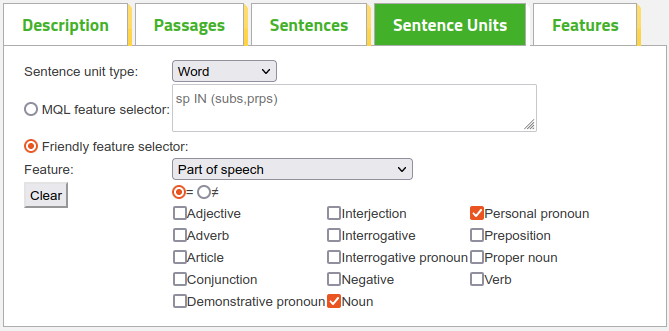
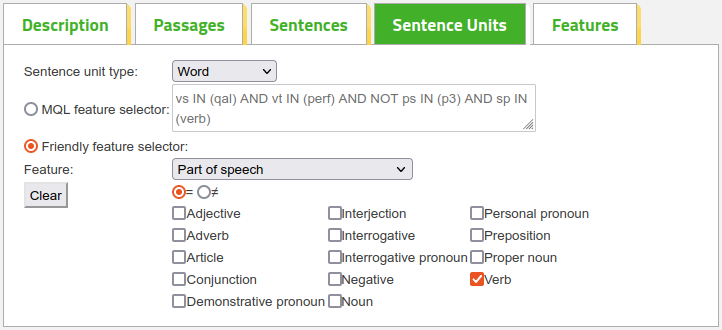
Added "Create advanced exercise" to Users Guide

diff --git a/usersguide/en/create_secondex.php b/usersguide/en/create_secondex.php
@@ -1,0 +1,163 @@
+<?php $hg = $hdir->heb_gr('Hebrew','Greek') ?>
+
+<h1>Example: Create an Advanced <?= $hg ?> Exercise</h1>
+
+<p>(You may be interested in a <?= anchor('help/show_help/create_secondex/' . $hdir->heb_gr('gr','heb'),
+                                          'corresponding '. $hdir->heb_gr('Greek','Hebrew') . ' exercise')
+    ?>.)</p>
+
+<p>In this example we shall continue working with the exercise from the
+    <?= anchor("help/show_help/create_firstex/$sub_article","previous example") ?>.</p>
+
+<p>In the previous example, we created an exercise that found <?= $hg ?>
+  verbs in the <?= $hdir->heb_gr('qal qatal forms','present indicative') ?> and asked the student about
+  the <?= $hdir->heb_gr('person, gender, and number','person and number') ?> of these verbs. We saw,
+  furthermore, that most verbs are in the third person <?= $hdir->heb('masculine') ?> singular, so we
+  chose to exclude all third person verbs.</p>
+
+<p>So far so good; but suppose we don&rsquo;t mind that words in the third person <i>occasionally</i>
+    turn up. We might, for example, say that when choosing <i>sentences</i> we insist that they
+    must contain words in the first or second person, but we don&rsquo;t mind if the chosen <i>sentence
+    units</i> (words) are in the third person if the sentence happens to contain such words.
+    We can do that in this way:</p>
+
+<p>In the &ldquo;Sentences&rdquo; tab, remove the check mark next to &ldquo;Use this for sentence
+  unit selection&rdquo;. This enables you to use different criteria when choosing
+  sentences and when choosing words within the sentence. Now click the
+  &ldquo;Sentence Units&rdquo; tab:</p>
+
+<?= $hdir->img("$sub_article-sentence-units-tab1.png") ?>
+
+<p>You can see that this tab is very similar to the &ldquo;Sentences&rdquo; tab, but the
+  first few lines come in a slightly different order. Depending on how you
+  reached this point, this window may show different things. If you started with
+  an empty exercise, the window will show no selected features. But if you opened
+  the exercise using <i>Edit</i> in the File Manager, the window will show the
+  original content of the <i>sentence</i> choice criteria. This may be a bit
+  confusing, but if you press the &ldquo;Clear&rdquo; button, all the criteria in this tab
+  are removed.</p>
+
+<p>Just as you originally did under &ldquo;Sentences&rdquo;, you can here choose Part-of-speech=Verb,
+  <?= $hdir->heb_gr('Stem=Qal and Tense=Qatal','Mood=Indicative and Tense=Present') ?>. But refrain from
+  specifying any requirements about the Person feature. In this way you allow the program to ask
+  about third person verbs if they happen to occur in the chosen sentences.</p>
+
+<p>You can no run the exercise again, and you might get this sentence from
+  <?= $hdir->heb_gr('Genesis&nbsp;3:12','Luke&nbsp;11:8') ?>:</p>
+
+<?= $hdir->img("$sub_article-run-exercise3.png") ?>
+
+<p>You can see that &ndash; as requested &ndash; the sentence contains at least one word which is
+    not in the third person; but as the sentence also happens to contain a third person verb
+    (namely, <?= $hdir->heb_gr('<span class="help hebrew">נָֽתְנָה</span>','χρῄζει') ?>), you are asked
+    about this one as well. (In this example, you need to click the &#10095; symbol at the right
+    side of the answer box to see that word.)</p>
+
+<p>But even this is not ideal. We saw earlier that among the present tense forms there was an excess
+  of third person <?= $hdir->heb('masculine') ?> singular forms. We have now chosen to exclude
+  sentences that only contain verbs in the third person, but we were actually only interested in
+  excluding words in the third person <i><?= $hdir->heb('masculine') ?> singular</i>. We don&rsquo;t mind
+  words in the third person <?= $hdir->heb('<i>feminine</i> or') ?> <i>plural.</i></p>
+
+<p>But if we want to exclude only the third person <?= $hdir->heb('masculine') ?> singular, the
+  feature selectors we have seen so far will not suffice. We need sentences containing words whose
+  part of speech is verb, whose <?= $hdir->heb_gr('stem is qal','mood is indicative') ?>, whose tense is
+  <?= $hdir->heb_gr('perfect','present') ?>, and whose <?= $hdir->heb_gr('person, gender, and number','person
+  and number') ?> are not simultaneously <?= $hdir->heb_gr('3rd, masculine, and singular','3rd and
+  singular') ?>. This is a fairly complex rule and you rarely need to specify something as
+  complicated as this. You <i>can</i> specify this in Bible OL, but you need to use the command
+  language MQL.</p>
+
+<p>If you are not interested in more complex sentence choices using MQL, you can skip the rest of
+    this example. But if you want a small taste of how <?= anchor('help/show_help/mql','MQL') ?>
+    is used, you may return to the &ldquo;Sentences&rdquo; tab and select the option &ldquo;MQL
+    statement to select sentences&rdquo;:</p>
+
+<?= $hdir->img("$sub_article-sentences-tab4.png") ?>
+
+<p>The system here shows an MQL command that corresponds to the features we
+  have chosen: <code><?= $hdir->heb_gr(
+  '[word NORETRIEVE vs IN (qal) AND vt IN (perf) AND NOT ps IN (p3) AND sp IN (verb)]',
+  '[word NORETRIEVE psp IN (verb) AND tense IN (present) AND mood IN (indicative) AND NOT person IN (third_person)]'
+   ) ?></code>.<?= make_footnote('*','You may need to move the small triangle at the lower right corner of the edit field
+   in order to see the entire text') ?>
+  This statement begins with the word &ldquo;word&rdquo; which indicates the type of sentence unit
+  we are looking for. The word &ldquo;NORETRIEVE&rdquo; has no effect on the choice, but it makes
+  the request run faster. The rest of the command contains our four selection criteria:</p>
+
+<?php if ($sub_article=='heb'): ?>
+
+    <table>
+        <tr>
+            <th>MQL</th><th style="padding-left:2em">Meaning</th>
+        </tr>
+        <tr>
+            <td><code>vs IN (qal)</code></td><td style="padding-left:2em"><i>verbal stem</i> is <i>qal</i></td>
+        </tr>
+        <tr>
+            <td><code>vt IN (perf)</code></td><td style="padding-left:2em"><i>verbal tense</i> is <i>perfect</i>, that is, <i>qatal</i></td>
+        </tr>
+        <tr>
+            <td><code>NOT ps IN (p3)</code></td><td style="padding-left:2em"><i>person</i> is not <i>3rd person</i></td>
+        </tr>
+        <tr>
+            <td><code>sp IN (verb)</code></td><td style="padding-left:2em"><i>speech part</i> is <i>verb</i></td>
+        </tr>
+    </table>
+
+<?php endif; ?>
+
+<?php if ($sub_article=='gr'): ?>
+
+    <table>
+        <tr>
+            <th>MQL</th><th style="padding-left:2em">Meaning</th>
+        </tr>
+        <tr>
+            <td><code>psp IN (verb)</code></td><td style="padding-left:2em"><i>part-of-speech</i> is <i>verb</i></td>
+        </tr>
+        <tr>
+            <td><code>tense IN (present)</code></td><td style="padding-left:2em"><i>tense</i> is <i>present</i></td>
+        </tr>
+        <tr>
+            <td><code>mood IN (indicative)</code></td><td style="padding-left:2em"><i>mood</i> is <i>indicative</i></td>
+        </tr>
+        <tr>
+            <td><code>NOT person IN (third_person)</code></td><td style="padding-left:2em"><i>person</i> is not <i>3rd person</i></td>
+        </tr>
+    </table>
+
+<?php endif; ?>
+
+<p style="margin-top:1em">The criteria are separated by the word &ldquo;AND&rdquo;.</p>
+
+
+<?php if ($sub_article=='heb'): ?>
+    <p>If you replace the code &ldquo;<code>NOT ps IN (p3)</code>&rdquo; with &ldquo;<code>NOT (ps IN (p3) AND
+    gn IN (m) AND nu IN (sg))</code>&rdquo;, you indicate that you do not wish the third person,
+    masculine, and singular at the same time. The modified MQL statement now reads: <code>[word
+    NORETRIEVE vs IN (qal) AND vt IN (perf) AND NOT (ps IN (p3) AND gn IN (m) AND nu IN (sg)) AND sp
+    IN (verb)]</code>.</p>
+<?php endif; ?>
+
+<?php if ($sub_article=='gr'): ?>
+    <p>If you replace the code &ldquo;<code>NOT person IN (third_person)</code>&rdquo; with
+    &ldquo;<code>NOT (person IN (third_person) AND number IN (singular))</code>&rdquo;,
+    you indicate that you do not wish the third person and singular at the same time. The modified
+    MQL statement now reads:
+    <code>[word NORETRIEVE psp IN (verb) AND tense IN (present) AND mood IN (indicative)
+    AND NOT (person IN (third_person) AND number IN (singular))]</code>.</p>
+<?php endif; ?>
+
+<p>When you run the exercise, most of the sentences will show no difference
+  from before. But occasionally you will come across a sentence such as <?= $hdir->heb_gr('Genesis
+  1:21','John 7:25') ?>:</p>
+
+<?= $hdir->img("$sub_article-run-exercise4.png") ?>
+
+
+<p>This sentence was chosen because it contains a third person <i>plural</i>
+  verb. <?= $hdir->heb_gr('(The gender is <i>unknown</i> here because there is no difference
+  between the masculine and feminine 3rd person plural form of the verb.)',
+  '(The chosen sentence units are still all verbs in the present indicative; therefore the program
+  also asks about <span class="greek">ἐστιν</span> which is third person singular.)') ?></p>

diff --git a/usersguide/en/create_firstex.php b/usersguide/en/create_firstex.php
@@ -178,7 +178,7 @@ For the exercise we are creating here, we need sentences containing words that..
 <p>Here you can indicate what information you will provide to the student, and what information the
     student should provide.</p>
 
-<p>When you first open this tab, all the marks will be in the &ldquo;Don’t care&rdquo; column. In the
+<p>When you first open this tab, all the marks will be in the &ldquo;Don&rsquo;t care&rdquo; column. In the
     rightmost column you will see all the features that are available for the sentence unit called
     &ldquo;Word&rdquo; in this database. The first feature is always &ldquo;Text&rdquo; and represents
     the actual word in the Bible verse.</p>
@@ -193,7 +193,7 @@ For the exercise we are creating here, we need sentences containing words that..
 
 <p>When students run the exercise, they will be able to display all the features by pointing to the
     individual words with their mouse. If you want to prevent students from seeing certain features,
-    indicate that in the &ldquo;Don’t show&rdquo; column. The &ldquo;Request&rdquo; features are never
+    indicate that in the &ldquo;Don&rsquo;t show&rdquo; column. The &ldquo;Request&rdquo; features are never
     visible to the students.</p>
 
 <?php if ($sub_article=='heb'): ?>
